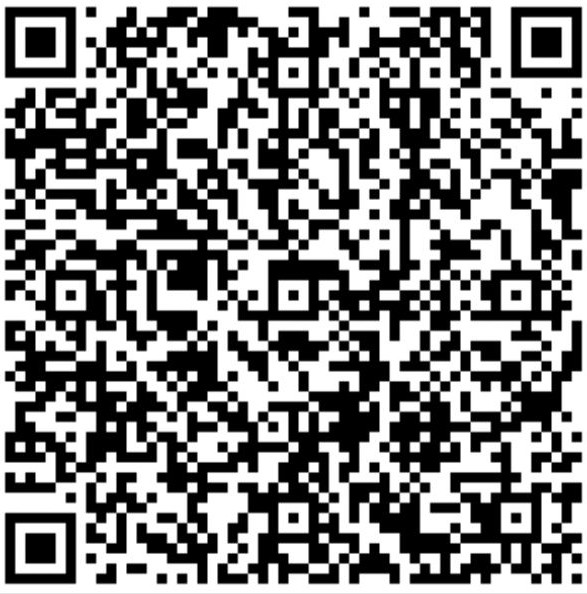
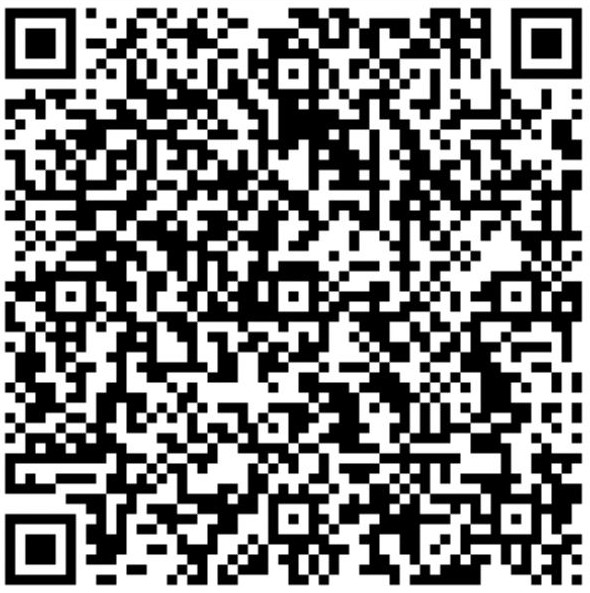
Price Update

diff --git a/index.html b/index.html
@@ -248,9 +248,9 @@
             <div class="investment-box reveal">
                 
                 <div class="price-header">
-                    <span class="lot-badge">1º Lote</span>
-                    <span class="old-price">de R$ 150,00</span>
-                    <span class="investment-price">por R$ 97,90</span>
+                    <span class="lot-badge" style="background-color: #c74b1e;">🔥 2º Lote</span>
+                    <span class="old-price">de R$ 200,00</span>
+                    <span class="investment-price">por R$ 150,00</span>
                 </div>
                 
                 <p>Escaneie o QR Code para garantir sua vaga:</p>
@@ -262,7 +262,7 @@
                 <p 
                     class="pix-key"
                     id="btnCopyPix"
-                    data-key="00020101021126360014br.gov.bcb.pix0114+5584998385541520400005303986540597.905802BR5925DANIEL LUCAS LEITE DE MAC6009SAO PAULO622905251K9Z94ZG1N38HC381411F1FGE630405FD"
+                    data-key="00020101021126360014br.gov.bcb.pix0114+55849985477635204000053039865406150.005802BR5925DANIEL LUCAS LEITE DE MAC6009SAO PAULO622905251KAEPPQ9ACGFYGTXF0Q4MT11C63042816"
                     title="Clique para copiar"
                 >
                     📋 Copiar Chave PIX (Copia e Cola)
@@ -274,7 +274,7 @@
                     <p class="instruction-text">Clique no botão abaixo para enviar o comprovante e confirmar sua inscrição.</p>
                 </div>
 
-                <a href="https://wa.me/5584998385541?text=Ol%C3%A1!%20Acabei%20de%20fazer%20o%20pix%20de%20R$%2097,90%20para%20o%20Banquete%20no%20Topo.%20Segue%20o%20comprovante:" 
+                <a href="https://wa.me/5584998385541?text=Ol%C3%A1!%20Acabei%20de%20fazer%20o%20pix%20do%202%C2%BA%20Lote%20(R$%20129,90)%20para%20o%20Banquete%20no%20Topo.%20Segue%20o%20comprovante:" 
                     target="_blank" 
                     class="cta-button investment-button whatsapp-btn"
                 >
